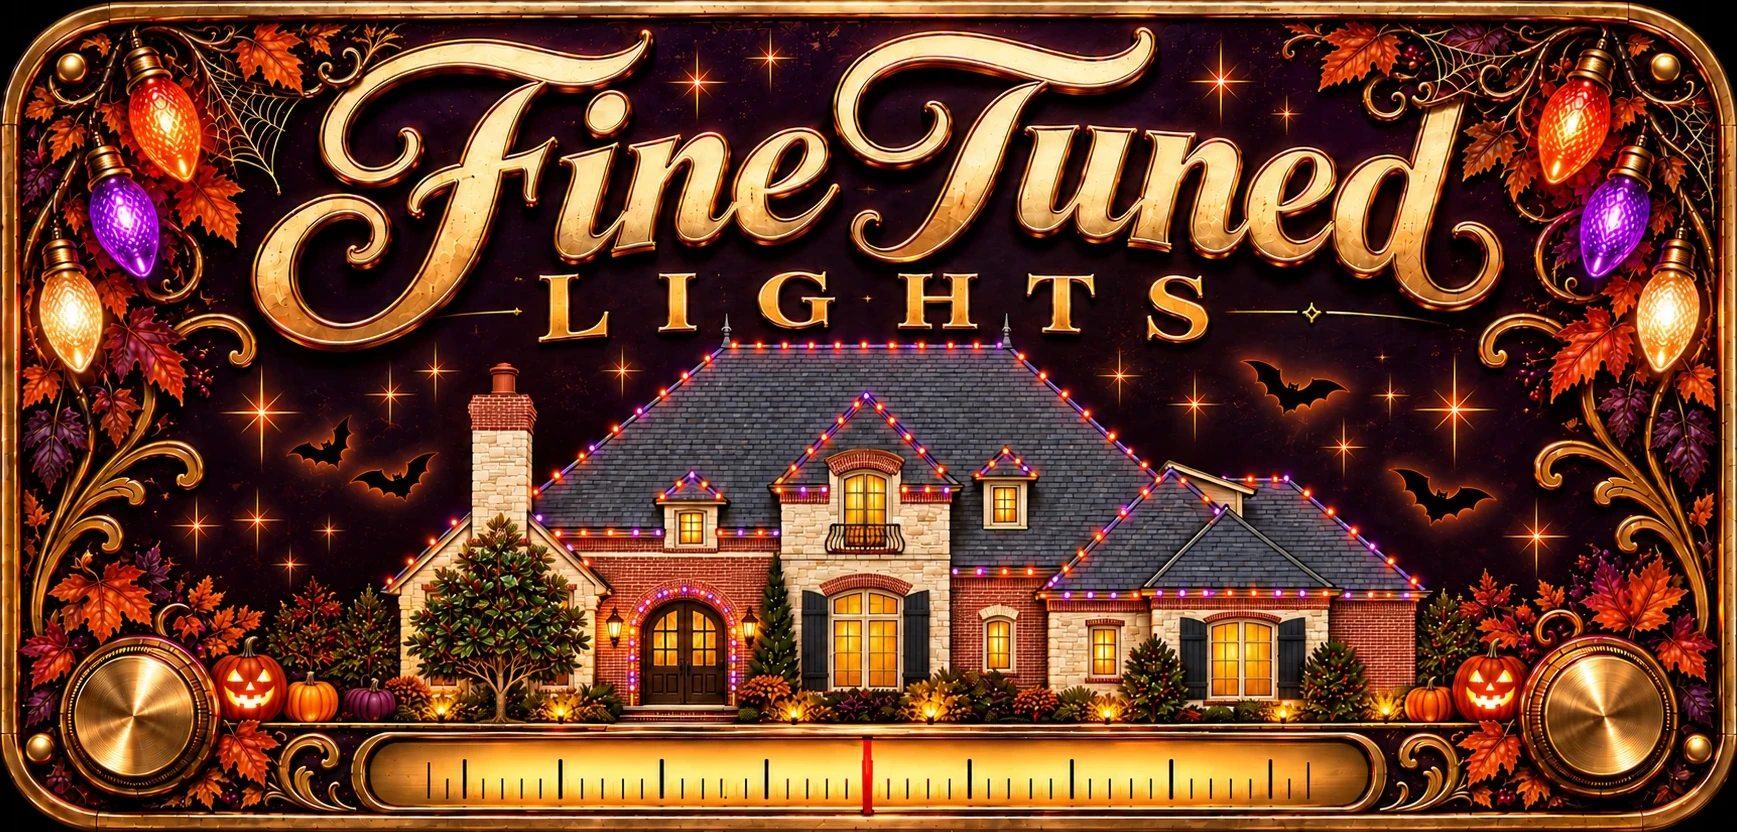
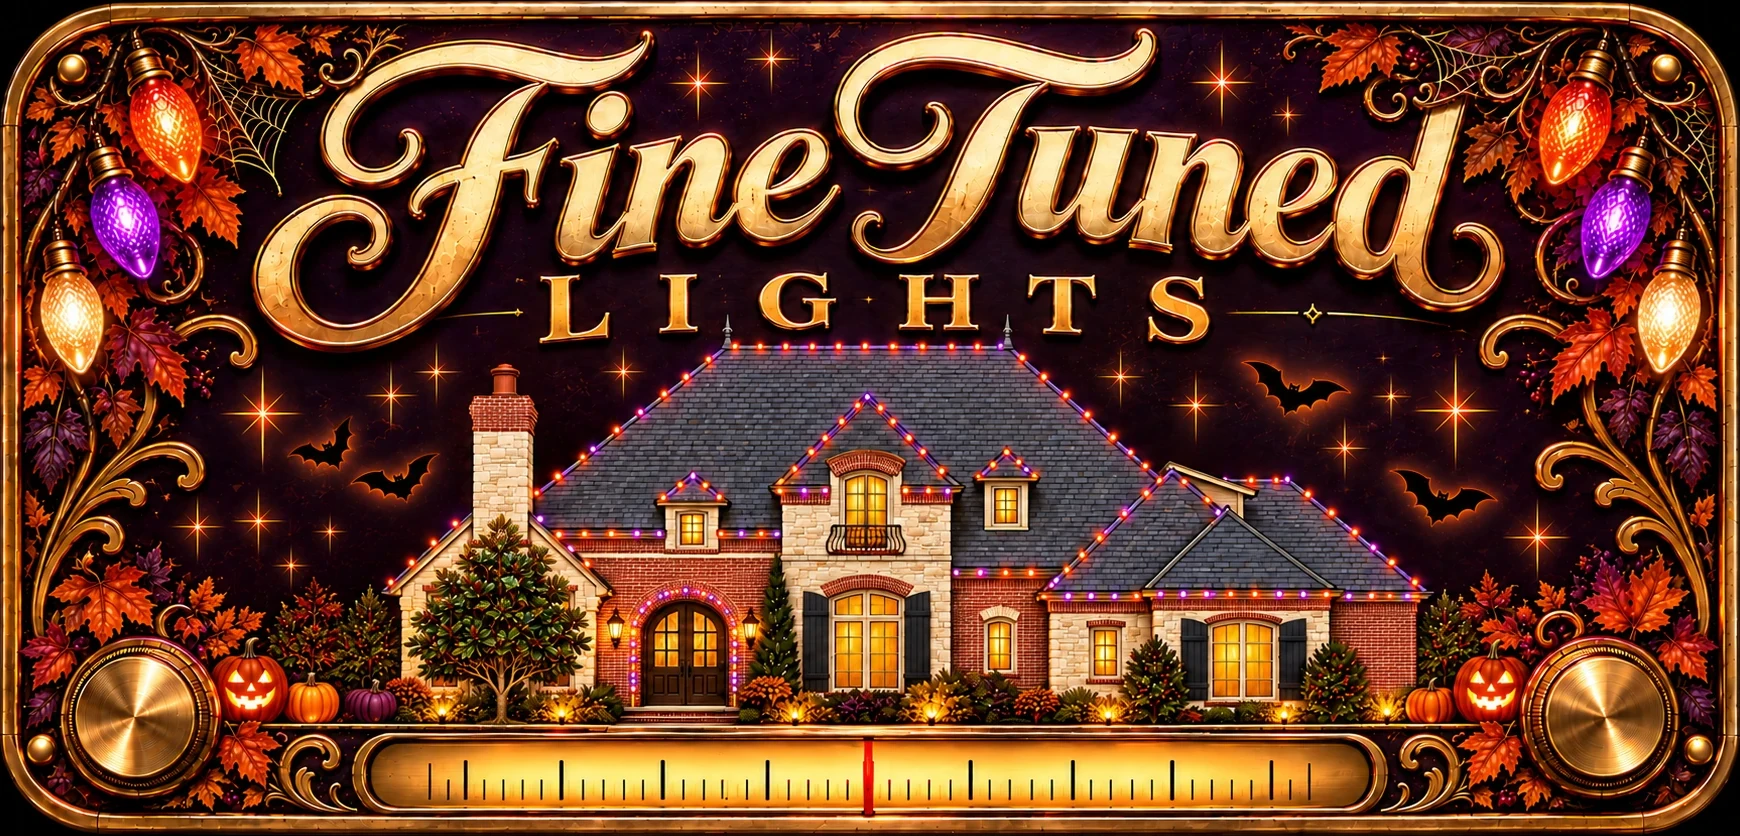
Matched brass, black About, lamp and glint on the announcement, rule under the dates

diff --git a/style.css b/style.css
@@ -1,7 +1,7 @@
 :root{
   /* matched to the PulseMesh web player: near-black, lavender pill buttons, Roboto */
   --bg:#121216;--panel:#1e1e26;--fg:#f2f1f6;--muted:#a6a4b3;
-  --gold:#e8ad3e;--gold-2:#f3d383;--line:#2e2a20;
+  --gold:#e6a846;--gold-2:#f2d08f;--line:#2e2a20;
   --max:720px;
 }
 *{box-sizing:border-box}
@@ -25,9 +25,9 @@ main.player iframe{width:100%;height:100%;border:0;display:block}
 .fallback.hidden{display:none}
 .btn{display:inline-block;padding:14px 22px;border-radius:12px;color:#2a1403;
   font-weight:700;text-decoration:none;font-size:17px;
-  background:linear-gradient(180deg,#f6c75e 0%,#e2a43f 30%,#b8742a 50%,#c5842f 62%,#eab24e 100%);
-  border:4px solid #d99a3a;
-  box-shadow:0 0 0 1px #4a2200, inset 0 0 0 1px #6a3004, inset 0 -2px 5px rgba(80,35,0,.45), 0 2px 7px rgba(0,0,0,.5);
+  background:linear-gradient(180deg,#edbc7f 0%,#cf9a5c 30%,#af641d 52%,#b8722c 64%,#dba76a 100%);
+  border:4px solid #cf9a5c;
+  box-shadow:0 0 0 1px #553e16, inset 0 0 0 1px #7c4a1b, inset 0 -2px 5px rgba(80,35,0,.45), 0 2px 7px rgba(0,0,0,.5);
   text-shadow:0 1px 0 rgba(255,236,185,.45)}
 footer.bar{flex:none;height:44px;display:flex;align-items:center;justify-content:center;
   gap:18px;border-top:1px solid var(--line);background:var(--bg);font-size:14px}
@@ -98,15 +98,15 @@ main.home .line b{color:var(--gold);text-transform:uppercase;letter-spacing:.06e
 main.home .line a{color:#e6d6b4;text-decoration-color:rgba(232,173,62,.75);text-decoration-thickness:1px;text-underline-offset:3px}
 main.home .btns{margin-bottom:10px}
 main.home .btns.below{margin:10px 0 0}   /* About sits under the house; the dates' own 5px top margin makes the 10px ink gap */
-main.home .rules{font-family:'Playfair Display', Georgia, serif;font-style:italic;font-weight:500;color:#c4ab7a;font-size:13.5px;line-height:1.5;margin:0 auto 5px;max-width:400px}
-/* a short gold rule sets the visitor note apart from the facts above it */
-main.home .rules::before{content:"";display:block;width:56px;height:1px;margin:10px auto 8px;background:linear-gradient(90deg,transparent,#d99a3a 30%,#d99a3a 70%,transparent)}
+main.home .rules{font-family:'Playfair Display', Georgia, serif;font-style:italic;font-weight:500;color:#c4ab7a;font-size:13.5px;line-height:1.5;margin:9px auto 5px;max-width:400px}
+/* a short gold rule under the season dates, above the hours (Andrew moved it here from above the note) */
+main.home .dates::after{content:"";display:block;width:56px;height:1px;margin:9px auto 0;background:linear-gradient(90deg,transparent,#cf9a5c 30%,#cf9a5c 70%,transparent)}
 /* in flow and sticky: sits 10px under the note when the page fits the screen, sticks to the bottom edge when it does not */
 .player-dock{position:sticky;bottom:10px;width:calc(100% - 24px);max-width:536px;margin:0 auto 10px;z-index:5;height:96px;overflow:hidden;border-radius:12px;background:#0f0b06}   /* same width as the 560px column (12px padding each side) on every screen */
 .player-dock iframe{position:absolute;left:0;right:0;bottom:0;width:100%;height:100vh;height:100dvh;border:0}
-.player-dock .backbar{position:absolute;top:0;left:0;right:0;height:60px;z-index:3;display:none;cursor:pointer;border:0;border-bottom:4px solid #d99a3a;
+.player-dock .backbar{position:absolute;top:0;left:0;right:0;height:60px;z-index:3;display:none;cursor:pointer;border:0;border-bottom:4px solid #cf9a5c;
   font-weight:700;font-size:16px;letter-spacing:.12em;text-transform:uppercase;color:#2a1403;-webkit-text-stroke:.6px currentColor;
-  background:linear-gradient(180deg,#f6c75e 0%,#e2a43f 30%,#b8742a 50%,#c5842f 62%,#eab24e 100%)}
+  background:linear-gradient(180deg,#edbc7f 0%,#cf9a5c 30%,#af641d 52%,#b8722c 64%,#dba76a 100%)}
 body.expanded .player-dock{position:fixed;left:0;right:0;bottom:0;margin:0;width:auto;max-width:none;height:100vh;height:100dvh;border:0;border-radius:0}
 body.expanded .player-dock .backbar{display:block}
 /* leftward chevron on the Back bar, drawn (no glyph) */
@@ -124,13 +124,26 @@ body.expanded main.home{display:none}
 .statusbar{text-align:center;font-size:15px;font-weight:600;letter-spacing:.06em;text-transform:uppercase;line-height:1.3;color:var(--gold-2);padding:5.1px 12px 6.4px}
 .statusbar b{color:var(--gold);font-weight:700}
 .statusbar.on b{color:#6ec07f}
+/* announcement: a pilot lamp (amber; green while the show is on) and a glint that sweeps the highlighted words */
+.statusbar{display:flex;align-items:center;justify-content:center;gap:9px}
+.statusbar .lamp{flex:none;width:9px;height:9px;margin-top:0;border-radius:50%;
+  background:radial-gradient(circle at 35% 35%,#ffe9a8,#e8ad3e 45%,#8a5a10);
+  box-shadow:0 0 6px 1px rgba(232,173,62,.75), inset 0 0 2px rgba(0,0,0,.6);animation:breathe 3.2s ease-in-out infinite}
+.statusbar.on .lamp{background:radial-gradient(circle at 35% 35%,#d8ffe0,#6ec07f 45%,#1f6b33);box-shadow:0 0 7px 1px rgba(110,192,127,.8), inset 0 0 2px rgba(0,0,0,.6)}
+@keyframes breathe{0%,100%{filter:brightness(1)}50%{filter:brightness(.7)}}
+.statusbar #status-text{background:linear-gradient(100deg,var(--gold) 0 40%,#fff3c4 50%,var(--gold) 60% 100%) no-repeat;background-size:300% 100%;background-position:100% 0;
+  -webkit-background-clip:text;background-clip:text;color:transparent;animation:glint 6s ease-in-out infinite}
+.statusbar #status-text b{color:inherit;background:none}
+.statusbar.on #status-text{background-image:linear-gradient(100deg,#6ec07f 0 40%,#e6ffe9 50%,#6ec07f 60% 100%)}
+@keyframes glint{0%,55%{background-position:100% 0}100%{background-position:0% 0}}
+@media (prefers-reduced-motion:reduce){.statusbar .lamp,.statusbar #status-text{animation:none}}
 
 /* logo palette: gold + green headline, gold accents */
 h1 .r{color:#d8382c}
 h1 .g{color:#6ec07f}
-.btn.alt{color:#f0c25a;border:4px solid #d99a3a;text-shadow:none;
+.btn.alt{color:#f0c25a;border:4px solid #cf9a5c;text-shadow:none;
   background:linear-gradient(180deg,#1b150c,#0e0a05);
-  box-shadow:0 0 0 1px #4a2200, inset 0 0 0 1px #6a3004, 0 2px 5px rgba(0,0,0,.4)}
+  box-shadow:0 0 0 1px #553e16, inset 0 0 0 1px #7c4a1b, 0 2px 5px rgba(0,0,0,.4)}
 
 body.expanded .player-dock .dockbar{display:none}
 
@@ -145,11 +158,11 @@ body.played:not(.expanded) .player-dock .reopen{display:block}
 .btn.big{letter-spacing:.1em}
 .statusbar{letter-spacing:.01em}
 /* house panel framed in brass like the header */
-.roofwrap{border:4px solid #d99a3a;
-  box-shadow:0 0 0 1px #4a2200, inset 0 0 0 1px #6a3004, inset 0 2px 14px rgba(0,0,0,.6), 0 2px 8px rgba(0,0,0,.5)}
+.roofwrap{border:4px solid #cf9a5c;
+  box-shadow:0 0 0 1px #553e16, inset 0 0 0 1px #7c4a1b, inset 0 2px 14px rgba(0,0,0,.6), 0 2px 8px rgba(0,0,0,.5)}
 
 /* the music bar as a 1930s radio tuner in the header's bronze: spun knobs, a backlit gold dial with dark ticks, a drifting needle */
-.player-dock{border:4px solid #d99a3a;box-shadow:0 0 0 1px #4a2200, inset 0 0 0 1px #6a3004, 0 2px 8px rgba(0,0,0,.5);background:#0f0b06}
+.player-dock{border:4px solid #cf9a5c;box-shadow:0 0 0 1px #553e16, inset 0 0 0 1px #7c4a1b, 0 2px 8px rgba(0,0,0,.5);background:#0f0b06}
 .player-dock .dockbar{position:absolute;inset:0;z-index:3;border:0;cursor:pointer;display:flex;align-items:center;gap:12px;padding:8px 12px;
   background:linear-gradient(180deg,#17110a,#0b0804)}
 .dockbar .knob{position:relative;flex:none;width:50px;height:50px;border-radius:50%;
@@ -157,10 +170,10 @@ body.played:not(.expanded) .player-dock .reopen{display:block}
              conic-gradient(from 20deg,#f1bd5e,#b9742a 12%,#f7cd78 24%,#a8661f 38%,#f3c268 50%,#b06b22 62%,#f9d07c 76%,#ad6a21 88%,#f1bd5e);
   box-shadow:0 0 0 2px #5e2a00, 0 0 0 4px #c98a2e, 0 0 0 5px #3a1a00, 0 3px 8px rgba(0,0,0,.7)}
 .dockbar .knob::after{content:"";position:absolute;inset:7px;border-radius:50%;border:1px solid rgba(90,40,0,.4)}
-.dockbar .dial{position:relative;flex:1;height:100%;border-radius:14px;overflow:hidden;border:3px solid #d99a3a;
+.dockbar .dial{position:relative;flex:1;height:100%;border-radius:14px;overflow:hidden;border:3px solid #cf9a5c;
   display:flex;flex-direction:column;align-items:center;justify-content:center;gap:2px;padding-bottom:14px;
   background:radial-gradient(ellipse 70% 120% at 50% 55%,#fff0a6 0%,#ffd96c 40%,#f6b840 75%,#d08a2c 100%);
-  box-shadow:0 0 0 1px #4a2200, inset 0 0 0 1px #6a3004, inset 0 0 22px rgba(120,60,0,.55)}
+  box-shadow:0 0 0 1px #553e16, inset 0 0 0 1px #7c4a1b, inset 0 0 22px rgba(120,60,0,.55)}
 .player-dock .dockbar:active .dial{filter:brightness(1.08)}
 .dockbar .dial b{font-family:'Playfair Display',Georgia,serif;font-weight:900;font-size:21px;line-height:1;letter-spacing:.1em;color:#3a1d05;text-shadow:0 1px 0 rgba(255,240,200,.5)}
 .dockbar .dial small{font-family:'Playfair Display',Georgia,serif;font-weight:700;font-size:11px;line-height:1;letter-spacing:.18em;color:#5b2d08;text-transform:uppercase}
@@ -179,10 +192,10 @@ body.expanded .player-dock .dockbar{display:none}
    panel about its middle). A point at fraction f of the panel's height sits at calc(hd/2 + (f - .5) * h), h the panel's
    scaled height and hd the bar's. Glass: y .25-.72, x .157-.84; ticks from y .60 (read off a grid overlay). */
 .player-dock.panel{--h:calc(min(100vw - 24px, 536px) / 4.202);--hd:min(var(--h), 120px);height:var(--hd);border:0;box-shadow:0 2px 8px rgba(0,0,0,.5);background:#000}
-body.played:not(.expanded) .player-dock{height:96px;border:4px solid #d99a3a;box-shadow:0 0 0 1px #4a2200, inset 0 0 0 1px #6a3004, 0 2px 8px rgba(0,0,0,.5);background:#0f0b06}
+body.played:not(.expanded) .player-dock{height:96px;border:4px solid #cf9a5c;box-shadow:0 0 0 1px #553e16, inset 0 0 0 1px #7c4a1b, 0 2px 8px rgba(0,0,0,.5);background:#0f0b06}
 /* PulseMesh's now-playing bar sits high in the bottom 96px of its page; nudge the frame down so the bar is centred in our box */
 body.played:not(.expanded) .player-dock iframe{bottom:-18px}
-.player-dock.panel .dockbar{padding:0;gap:0;background:#000 url(tuner.webp?v=48) center/cover no-repeat}
+.player-dock.panel .dockbar{padding:0;gap:0;background:#000 url(tuner.webp?v=49) center/cover no-repeat}
 .player-dock.panel .dockbar .knob,.player-dock.panel .dockbar .scale{display:none}
 .player-dock.panel .dockbar .dial{position:absolute;left:15.7%;right:16%;top:max(0px,calc(var(--hd) / 2 - .25 * var(--h)));bottom:max(0px,calc(var(--hd) / 2 - .22 * var(--h)));height:auto;z-index:2;
   border:0;border-radius:0;background:none;box-shadow:none;flex-direction:row;align-items:center;justify-content:center;gap:0;padding:0 0 calc(.09 * var(--h));overflow:visible}

diff --git a/index.html b/index.html
@@ -11,15 +11,15 @@
 <meta property="og:image" content="https://finetunedlights.com/display-photo.jpg">
 <link rel="preconnect" href="https://fonts.googleapis.com">
 <link rel="stylesheet" href="https://fonts.googleapis.com/css2?family=Playfair+Display:ital,wght@0,600;0,700;0,900;1,500&family=Josefin+Sans:wght@600;700&family=Roboto:wght@400;500;700&display=swap">
-<link rel="stylesheet" href="style.css?v=48">
+<link rel="stylesheet" href="style.css?v=49">
 <link rel="icon" href="favicon.svg" type="image/svg+xml">
-<script src="show.js?v=48" defer></script>
-<script src="holiday.js?v=48" defer></script>
-<script src="roof-player.js?v=48" defer></script>
+<script src="show.js?v=49" defer></script>
+<script src="holiday.js?v=49" defer></script>
+<script src="roof-player.js?v=49" defer></script>
 </head>
 <body class="app dock">
 <main class="home">
-  <div class="masthead"><img id="banner" src="banner.webp?v=48" alt="Fine Tuned Lights"></div>
+  <div class="masthead"><img id="banner" src="banner.webp?v=49" alt="Fine Tuned Lights"></div>
 <script>
   // Halloween header Oct 1 - Nov 1 (show's time zone); Christmas header the rest of the year.
   (function () {
@@ -27,16 +27,16 @@
     var o = {}; f.formatToParts(new Date()).forEach(function (p) { o[p.type] = p.value; });
     var m = +o.month, d = +o.day;
     window.__halloween = (m === 10 || (m === 11 && d === 1));
-    if (window.__halloween) document.getElementById('banner').src = 'banner-halloween.webp?v=48';
+    if (window.__halloween) document.getElementById('banner').src = 'banner-halloween.webp?v=49';
   })();
 </script>
-  <div class="statusbar" id="status">Sunset to 10 pm, midnight on weekends</div>
+  <div class="statusbar" id="status"><i class="lamp" aria-hidden="true"></i><span id="status-text">Sunset to 10 pm, midnight on weekends</span></div>
   <div class="btns">
     <a class="btn big" href="#" id="expand">Vote for the next song</a>
   </div>
   <div class="roofwrap"><canvas id="roof"></canvas></div>
   <div class="btns below">
-    <a class="btn big" href="about.html">About the show</a>
+    <a class="btn big alt" href="about.html">About the show</a>
   </div>
   <p class="line dates"><span id="season-h"><b>Halloween &middot; October 24 to 31</b><br></span><b>Christmas &middot; <span id="season">November 27 to January 1</span></b></p>
   <p class="line hrs">Sunset to 10 pm,<br>midnight on weekends and holidays</p>
@@ -76,7 +76,7 @@
   document.getElementById('reopen').addEventListener('click', open);
   backEl.addEventListener('click', collapse);
   // the generated tuner panel takes over the bar once it has loaded (CSS tuner until then, or if it is missing)
-  var panel = new Image(); panel.onload = function () { document.getElementById('dock').classList.add('panel'); }; panel.src = 'tuner.webp?v=48';
+  var panel = new Image(); panel.onload = function () { document.getElementById('dock').classList.add('panel'); }; panel.src = 'tuner.webp?v=49';
   var loaded = false; document.getElementById('player').addEventListener('load', function () { loaded = true; });
   setTimeout(function () { if (!loaded) { var a = document.getElementById('expand'); a.textContent = 'Open the player to vote'; a.href = 'https://psm.sh/MZVS'; a.onclick = null; dock.style.display = 'none'; } }, 10000);
 
@@ -87,7 +87,7 @@
   window.addEventListener('DOMContentLoaded', async function () {
     try {
       var show = await Roofline.loadShow('like-its-christmas');
-      var r = Roofline.makeRenderer(document.getElementById('roof'), show, { background: (window.__halloween ? 'house-night-halloween.jpg' : 'house-night.jpg') + '?v=48' });
+      var r = Roofline.makeRenderer(document.getElementById('roof'), show, { background: (window.__halloween ? 'house-night-halloween.jpg' : 'house-night.jpg') + '?v=49' });
       var t0 = performance.now();
       r.start(function () {
         return window.__pmPositionMs ? window.__pmPositionMs() : (performance.now() - t0) % r.durationMs;

diff --git a/show.js b/show.js
@@ -95,8 +95,9 @@ document.addEventListener('DOMContentLoaded', () => {
   }
   const hallEl = document.getElementById('season-h');   // the Halloween line only while that show is on the calendar
   if (hallEl && !HALLOWEEN) hallEl.style.display = 'none';
-  const el = document.getElementById('status');
-  if (!el) return;
-  const paint = () => { const s = showStatus(); el.innerHTML = s.text; el.classList.toggle('on', s.on); };
+  const bar = document.getElementById('status');
+  if (!bar) return;
+  const el = document.getElementById('status-text') || bar;   // the text sits beside a pilot lamp on the landing page
+  const paint = () => { const s = showStatus(); el.innerHTML = s.text; bar.classList.toggle('on', s.on); };
   paint(); setInterval(paint, 30000);
 });
